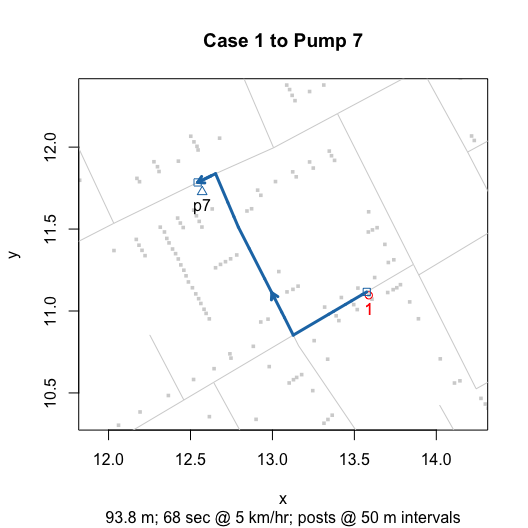
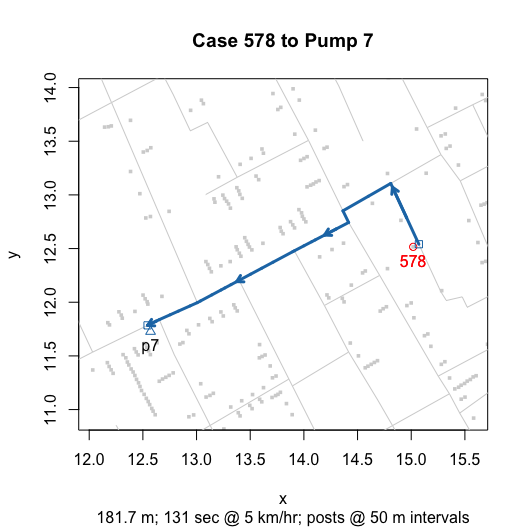
use snowColors() in latlongWalkingPath()

diff --git a/README.md b/README.md
@@ -1,7 +1,7 @@
 
 <!-- README.md is generated from README.Rmd. Please edit that file -->
 [![CRAN\_Status\_Badge](http://www.r-pkg.org/badges/version/cholera)](https://cran.r-project.org/package=cholera)
-[![GitHub\_Status\_Badge](https://img.shields.io/badge/GitHub-0.7.9.9094-red.svg)](https://github.com/lindbrook/cholera/blob/master/NEWS)
+[![GitHub\_Status\_Badge](https://img.shields.io/badge/GitHub-0.7.9.9095-red.svg)](https://github.com/lindbrook/cholera/blob/master/NEWS)
 ## cholera: amend, augment and aid analysis of Snow’s cholera map
 
 #### package features
@@ -235,8 +235,8 @@ latlongNeighborhoodVoronoi(euclidean.paths = TRUE)
 <img src="man/figures/README-latlong_voronoi-1.png" width="50%" /><img src="man/figures/README-latlong_voronoi-2.png" width="50%" />
 
 ``` r
-plot(walkingPath())
-plot(latlongWalkingPath())
+plot(walkingPath(578))
+plot(latlongWalkingPath(578))
 ```
 
 <img src="man/figures/README-latlong_walking_path-1.png" width="50%" /><img src="man/figures/README-latlong_walking_path-2.png" width="50%" />
